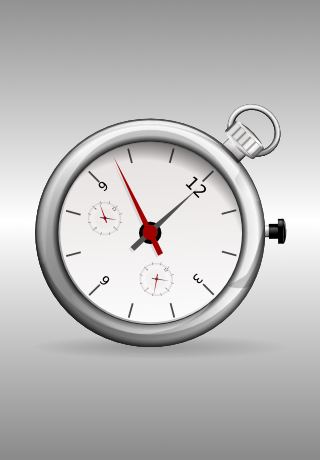
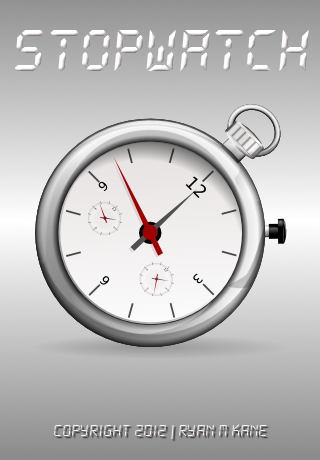
Fixed some font size issues and updated splash screen

diff --git a/index.html b/index.html
@@ -4,11 +4,12 @@
 		<title> Stopwatch </title>
 		<meta charset='UTF-8'>
 		<meta name="viewport" content="width=device-width, initial-scale=1.0"/>
+		<meta name="viewport" content="width=device-width, minimum-scale=1.0, maximum-scale=1.0, user-scalable=no">
     <meta name="apple-mobile-web-app-capable" content="yes" />
     <meta name="apple-mobile-web-app-status-bar-style" content="black"/>
-		<link rel="apple-touch-icon" href="img/touch-icon-iphone.png" />
-		<link rel="apple-touch-icon" sizes="72x72" href="img/touch-icon-ipad.png" />
-		<link rel="apple-touch-icon" sizes="114x114" href="img/touch-icon-iphone4.png" />
+		<link rel="apple-touch-icon-precomposed" href="img/touch-icon-iphone.png" />
+		<link rel="apple-touch-icon-precomposed" sizes="72x72" href="img/touch-icon-ipad.png" />
+		<link rel="apple-touch-icon-precomposed" sizes="114x114" href="img/touch-icon-iphone4.png" />
 		<link rel="apple-touch-startup-image" href="img/startup.png">
 		<link rel="stylesheet" type="text/css" href="css/stylesheet.css">
     <script rel="stylsheet" type="text/javascript" src="js/script.js"></script>

diff --git a/js/script.js b/js/script.js
@@ -118,14 +118,14 @@ function reset_time() {
 		counter(reset_time);
 	} else {
 		display.value = "00:00.000";
-		split_time_ara.value = "";
-		split_count = 0;
 	}
+	split_time_ara.value = "";
+	split_count = 0;
 }
 
 // Capture a time and add to running list
 function split_time() {
 	if (running == 1) {
-		split_time_ara.value += (++split_count) + ". " + display.value + "\n";
+		split_time_ara.value += (split_count < 9 ? '0' : '') + (++split_count) + ". " + display.value + "\n";
 	}
 }

diff --git a/css/stylesheet.css b/css/stylesheet.css
@@ -52,7 +52,7 @@ input[type="button"] {
 	color:#44a;
 	width:80px;
 	height:36px;
-	font-size:18px;
+	font-size:16px;
 	font-weight:bold;
 	margin:10px 0px;
 	text-align:center;
@@ -67,6 +67,7 @@ textarea#split_time_ara {
 	background:#ccf;
 	resize:none;
 	border:none;
+	font-family:monospace;
 }
 
 span.spacer {

diff --git a/README.md b/README.md
@@ -1,4 +1,11 @@
-Javascript Stopwatch
+<h1>Javascript Stopwatch</h1>
 
-Configuring Web Applications for iDevices
-http://developer.apple.com/library/ios/#documentation/AppleApplications/Reference/SafariWebContent/ConfiguringWebApplications/ConfiguringWebApplications.html
+<h2>Configuring Web Applications for iDevices</h2>
+<ul>
+<li><a href="http://developer.apple.com/library/ios/#documentation/AppleApplications/Reference/SafariWebContent/ConfiguringWebApplications/ConfiguringWebApplications.html">Configure iOS Web Apps</a></li>
+<li><a href="http://mobile.tutsplus.com/tutorials/iphone/iphone-web-app-meta-tags/">iOS Meta Tags</a></li>
+</ul>
+<ul>
+<h2>Icons</h2>
+<li><a href="http://www.iconarchive.com/show/oxygen-icons-by-oxygen-icons.org/Actions-player-time-icon.html">Icon Archive - Actions Player Time Icon</a></li>
+</ul>
